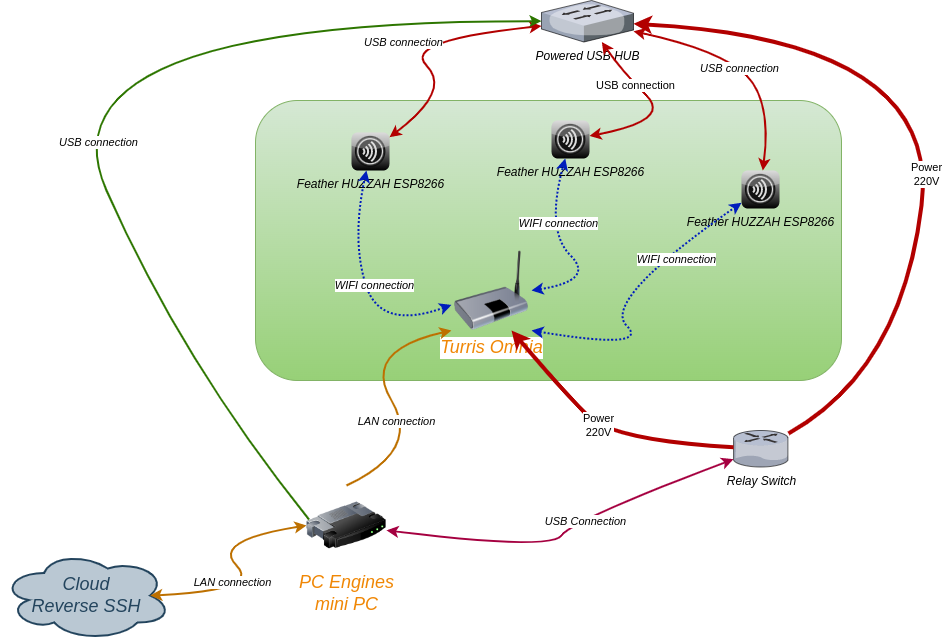
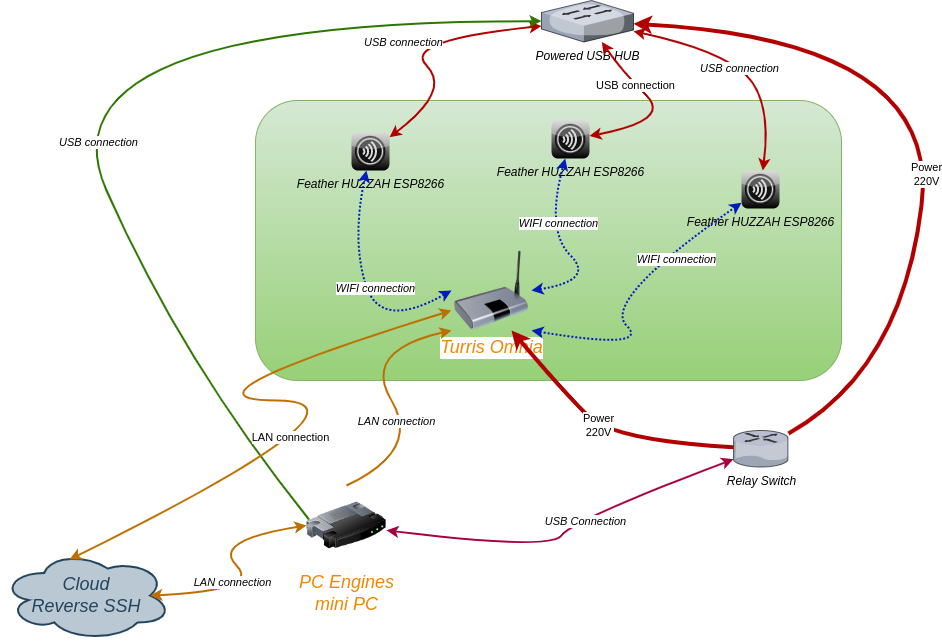
added docs

diff --git a/README.md b/README.md
@@ -1,16 +1,16 @@
 # NIST Deployment
 
-![Setup](docs/image/setup.png?raw=true "Setup")
+![Setup](docs/images/setup.png?raw=true "Setup")
 
 ## Setup
 
-Devices:
+### Devices
  - PC Engines/mini PC
     - 2 x LAN connections
     - 2 x USB connections
  - Turris Omnia
     - 1 x WiFi modem
-    - 1 x LAN connection
+    - 2 x LAN connections
  - Feather HUZZAH ESP8266
     - USB connection
     - WiFi connection
@@ -20,3 +20,70 @@ Devices:
  - Smart Plug ZigBee
     - Power connection
 
+### IoT testbed
+ - 1 x Turris Omnia - WiFi access point
+ - 3 x Feather HUZZAH ESP8266 - IoT WiFi devices
+
+### Control testbed
+ 1. PC Engines/mini PC
+  - Reverse SSH, cloud connection
+  - USB relay connection connection
+  - Powered USB connection
+ 2. Turris Omnia LAN connection
+ 3. Relay switch
+ 4. Powered USB hub
+
+## Development
+
+### Feather HUZZAH ESP8266
+#### Install micropython
+
+Instal [esptool](https://github.com/espressif/esptool) with:
+```bash
+pip3 install esptool
+```
+
+Using esptool you can erase the flash with the command:
+```bash
+esptool.py --port /dev/ttyUSB0 erase_flash
+```
+
+Download micropython for ESP8266 with 2MiB+ flash:
+
+[https://micropython.org/download/esp8266](https://micropython.org/download/esp8266)
+
+And then deploy the new firmware using:
+
+```bash
+esptool.py --port /dev/ttyUSB0 --baud 460800 write_flash --flash_size=detect 0 esp8266-20170108-v1.8.7.bin
+
+```
+You might need to change the `port` setting to something else relevant for your PC. You may also need to reduce the baudrate if you get errors when flashing (e.g., down to 115200). The filename of the firmware should also match the file that you have.
+
+To access the prompt over USB-serial you need to use a terminal emulator program. Linux has picocom and minicom.
+
+```bash
+picocom /dev/ttyUSB0 -b115200
+```
+
+#### Install adafruit-ampy
+[Ampy](https://github.com/scientifichackers/ampy) is meant to be a simple command line tool to manipulate files and run code on a CircuitPython or MicroPython board over its serial connection.
+
+```bash
+pip3 install --user adafruit-ampy
+```
+
+To list the files on ESP use:
+```bash
+ampy --port /dev/ttyUSB0 ls
+```
+
+#### ESP file structure
+There are two main python files located on ESP8266 after uploading the firmware:
+ - `boot.py` - run on board startup, configures the micropython for the board
+ - `main.py` - where the main app is located
+
+If `main.py` is changed, the board needs to be unplugged and the plugged back in for the changes to take effect.
+
+## Documentation
+ 1. [https://docs.micropython.org/en/latest/esp8266/quickref.html](https://docs.micropython.org/en/latest/esp8266/quickref.html)
